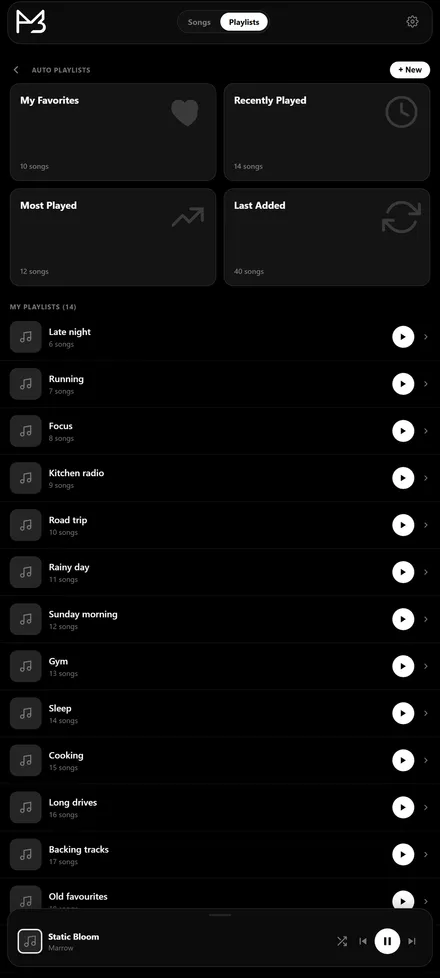
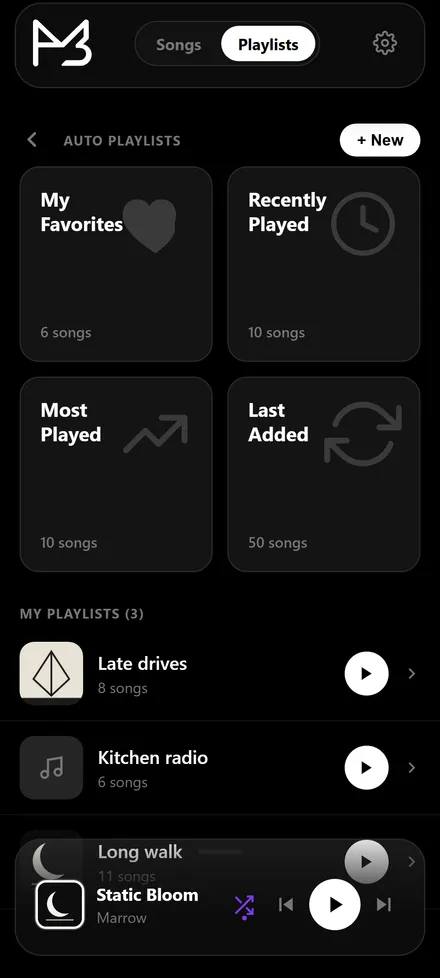
App: a tagged demo library, and a script that shoots the phone screenshots
The browser fixture had thirty tracks with no artists, on the reasoning
that an untagged library is what many people really have. True, but the
fixture is also the shop window: it is what the website's screenshots
and its embedded demo show, and a column of empty artists reads as a
player that cannot read your files rather than as files without tags.

So it is eight invented acts with eight tracks each, interleaved by date
added so the newest-first default shows a mixed library instead of eight
clean blocks.

The screenshots themselves are no longer taken by hand. scripts/
screenshot.mjs drives the dev server through Chrome's DevTools protocol
and always comes out at 1080 x 2400. Chrome's --window-size alone is not
enough: headless clamps the window to 486 css px, so the page lays out
too wide and the capture crops it, which is why this talks to the
protocol rather than shelling out to --screenshot.

The props it seeds with, three invented record sleeves and a listening
history, live in scripts/shot-props and are copied into public/ only
for the length of a run. Everything in public/ ships inside the release
APK, so they cannot stay there.

Website: both screens retaken. 64 songs rather than 40, artists on every
row, three covers, and the auto playlists have counts instead of zeroes.

diff --git a/MPTree-App/src/web/demoLibrary.ts b/MPTree-App/src/web/demoLibrary.ts
@@ -4,39 +4,98 @@
 // no MediaPlayer, so these stand in. That powers the playable demo embedded on
 // the website, and makes `npm run dev` a usable way to work on the UI.
 //
-// Titles are invented on purpose. The demo is public, so nothing here may be a
-// real song or artist. Artists are left blank, which is also what an untagged
-// library actually looks like.
+// Everything here is invented on purpose. The demo is public, so no name in
+// this file may belong to a real song, artist or record.
+//
+// Artists used to be left blank, on the reasoning that an untagged library is
+// what many people actually have. True, but this fixture is also the shop
+// window: it is what the website's screenshots and its embedded demo show, and
+// a column of empty artists reads as "this player cannot read my files"
+// rather than as "these files have no tags". So the fixture is tagged.
 
 export type DemoTrack = {
   id: string;
   title: string;
   artist: string;
+  album: string;
+  year: number;
+  track: number;
   uri: string;
   dateAdded: number;
   duration: number;
 };
 
-const TITLES = [
-  "Nightjar", "Held", "Loom", "Signal", "Drift", "Ember", "Vellum", "Static Bloom",
-  "Pale Hour", "Undertow", "Marrow", "Glasswing", "Sable", "Tinder", "Cinder",
-  "Halcyon", "Nocturne", "Fathom", "Ravel", "Umbra", "Quill", "Lantern", "Bramble",
-  "Cove", "Aster", "Kiln", "Meridian", "Slate", "Thistle", "Wren",
+/** Eight invented acts, each with an invented record. */
+const RECORDS: { artist: string; album: string; year: number; titles: string[] }[] = [
+  {
+    artist: "Kite Season", album: "Paper Weather", year: 2024,
+    titles: ["Midnight Drive", "Amber Light", "Iron Lullaby", "Distant Engine",
+             "Paper Weather", "Six Hours North", "Lantern", "Winter Arcade"],
+  },
+  {
+    artist: "The Halogens", album: "Slow Signal", year: 2023,
+    titles: ["Paper Boats", "Dust and Wire", "Blue Hour", "Slow Signal",
+             "Cold Open", "Tinder", "Halcyon", "The Quiet Part"],
+  },
+  {
+    artist: "Marrow", album: "Static Bloom", year: 2025,
+    titles: ["Static Bloom", "Neon Orchard", "The Long Way Down", "Glasswing",
+             "Sable", "Undertow", "Fathom", "Nocturne"],
+  },
+  {
+    artist: "Nine Lanterns", album: "Ghost Frequency", year: 2024,
+    titles: ["Wolves in the Hall", "Ghost Frequency", "Copper Rain", "Bramble",
+             "Kiln", "Thistle", "Ravel", "Held"],
+  },
+  {
+    artist: "Ada Vane", album: "Low Tide", year: 2022,
+    titles: ["Low Tide", "Silver Kite", "Cove", "Aster",
+             "Quill", "Drift", "Wren", "Meridian"],
+  },
+  {
+    artist: "Post Meridiem", album: "Sunday Machine", year: 2025,
+    titles: ["Cathedral Hum", "Sunday Machine", "Hollow Season", "Pale Hour",
+             "Umbra", "Slate", "Vellum", "Ember"],
+  },
+  {
+    artist: "Fenwick Drive", album: "Nightjar", year: 2023,
+    titles: ["Nightjar", "Loom", "Cinder", "Signal Fire",
+             "The Understudy", "Harbour Light", "Ninth of June", "Everley"],
+  },
+  {
+    artist: "Salt House", album: "Tidewater", year: 2026,
+    titles: ["Tidewater", "Brackish", "Anchor Chain", "Saltmarsh",
+             "Gale Warning", "Foghorn", "Spring Tide", "Last Ferry"],
+  },
 ];
 
 const DAY = 86_400_000;
 
-/** Deterministic, so the demo looks the same to everyone who opens it. */
-export const DEMO_TRACKS: DemoTrack[] = TITLES.map((title, i) => ({
-  id:        `demo://${i}`,
-  title,
-  artist:    "",
-  uri:       `demo://${i}`,
-  dateAdded: Date.UTC(2026, 7, 1) - i * DAY,
-  // 2:34 to about 5:30, varied enough that the progress bar reads differently
-  // from row to row.
-  duration:  154_000 + ((i * 37) % 180) * 1000,
-}));
+/**
+ * Deterministic, so the demo looks the same to everyone who opens it.
+ *
+ * Records are interleaved rather than listed one after another: sorted by date
+ * added, the newest-first default then shows a mixed library the way a real one
+ * looks, instead of eight albums in eight clean blocks.
+ */
+export const DEMO_TRACKS: DemoTrack[] = RECORDS.flatMap((rec, r) =>
+  rec.titles.map((title, t) => {
+    const i = t * RECORDS.length + r;
+    return {
+      id:        `demo://${i}`,
+      title,
+      artist:    rec.artist,
+      album:     rec.album,
+      year:      rec.year,
+      track:     t + 1,
+      uri:       `demo://${i}`,
+      dateAdded: Date.UTC(2026, 7, 1) - i * DAY,
+      // 2:34 to about 5:30, varied enough that the progress bar reads
+      // differently from row to row.
+      duration:  154_000 + ((i * 37) % 180) * 1000,
+    };
+  }),
+).sort((a, b) => b.dateAdded - a.dateAdded);
 
 export const DEMO_DURATIONS: Record<string, number> = Object.fromEntries(
   DEMO_TRACKS.map(t => [t.uri, t.duration]),

diff --git a/Website/index.html b/Website/index.html
@@ -15,18 +15,18 @@
 <meta property="og:title" content="MPTree, an offline music player">
 <meta property="og:description" content="MPTree plays the music already on your device. Nothing streams, nothing uploads.">
 <meta property="og:url" content="https://mp-tree.net/">
-<meta property="og:image" content="https://mp-tree.net/assets/img/og-image.png?v=33">
+<meta property="og:image" content="https://mp-tree.net/assets/img/og-image.png?v=34">
 <meta property="og:image:width" content="1200">
 <meta property="og:image:height" content="630">
 <meta name="twitter:card" content="summary_large_image">
-<meta name="twitter:image" content="https://mp-tree.net/assets/img/og-image.png?v=33">
+<meta name="twitter:image" content="https://mp-tree.net/assets/img/og-image.png?v=34">
 
 <link rel="icon" type="image/svg+xml" href="assets/icon/favicon.svg">
 <link rel="icon" type="image/png" sizes="32x32" href="assets/icon/favicon-32.png">
 <link rel="apple-touch-icon" href="assets/icon/apple-touch-icon-180.png">
 
-<link rel="stylesheet" href="assets/tokens.css?v=33">
-<link rel="stylesheet" href="assets/site.css?v=33">
+<link rel="stylesheet" href="assets/tokens.css?v=34">
+<link rel="stylesheet" href="assets/site.css?v=34">
 </head>
 <body>
 
@@ -56,7 +56,7 @@
 
     <div class="hero-disc" aria-hidden="true">
       <div class="disc">
-        <img src="assets/img/vinyl.webp?v=33" alt="" width="1000" height="1000">
+        <img src="assets/img/vinyl.webp?v=34" alt="" width="1000" height="1000">
       </div>
       <div class="disc-label">
         <img src="assets/img/mptree-mark-black.svg" alt="" width="26" height="26">
@@ -107,14 +107,14 @@
       <div class="phone-row">
         <div class="phone">
           <div class="phone-screen">
-            <img class="phone-shot" src="assets/img/screens/songs.png?v=33"
+            <img class="phone-shot" src="assets/img/screens/songs.png?v=34"
                  alt="The MPTree song list, with a track playing in the bar at the bottom"
                  width="1080" height="2400" loading="lazy">
           </div>
         </div>
         <div class="phone">
           <div class="phone-screen">
-            <img class="phone-shot" src="assets/img/screens/playlists.png?v=33"
+            <img class="phone-shot" src="assets/img/screens/playlists.png?v=34"
                  alt="The MPTree playlists page, with the automatic playlists above your own"
                  width="1080" height="2400" loading="lazy">
           </div>
@@ -283,8 +283,8 @@
   </div>
 </footer>
 
-<script src="assets/versions.js?v=33"></script>
-<script src="assets/releases.js?v=33" defer></script>
-<script src="assets/site.js?v=33" defer></script>
+<script src="assets/versions.js?v=34"></script>
+<script src="assets/releases.js?v=34" defer></script>
+<script src="assets/site.js?v=34" defer></script>
 </body>
 </html>

diff --git a/MPTree-App/scripts/shot-props/seed.html b/MPTree-App/scripts/shot-props/seed.html
@@ -1,0 +1,41 @@
+<!doctype html><meta charset="utf-8"><title>seed</title>
+<body style="background:#000">
+<script>
+(async () => {
+  const toDataUrl = async u => {
+    const b = await (await fetch(u)).blob();
+    return await new Promise(r => { const f = new FileReader(); f.onload = () => r(f.result); f.readAsDataURL(b); });
+  };
+  const covers = await Promise.all([0,1,2].map(i => toDataUrl('/demo-cover-' + i + '.jpg')));
+  const meta = {};
+  covers.forEach((p, i) => { meta['demo://' + i] = { customPhoto: p }; });
+  for (const i of [1, 5, 9, 13, 17, 22]) {
+    meta['demo://' + i] = Object.assign(meta['demo://' + i] || {}, { liked: true });
+  }
+  // A listening history, so Recently Played and Most Played are not both empty.
+  const HOUR = 3600000, now = Date.UTC(2026, 8, 8, 19, 40);
+  [[2, 31, 1], [1, 14, 3], [9, 9, 5], [5, 8, 9], [17, 7, 14], [0, 6, 20],
+   [13, 5, 27], [22, 4, 33], [4, 3, 41], [8, 2, 52]].forEach(([i, plays, hoursAgo]) => {
+    meta['demo://' + i] = Object.assign(meta['demo://' + i] || {}, {
+      playCount: plays, lastPlayedAt: now - hoursAgo * HOUR,
+    });
+  });
+  localStorage.setItem('CapacitorStorage.mptree_meta', JSON.stringify(meta));
+  localStorage.setItem('CapacitorStorage.mptree_session', JSON.stringify({
+    filter: 'newest', playMode: 'shuffle', currentId: 'demo://2',
+    queueIds: Array.from({ length: 64 }, (_, i) => 'demo://' + i),
+    positionMs: 74000, isPlaying: false
+  }));
+  // Two playlists of the user's own, so the tab is not only the automatic ones.
+  localStorage.setItem('CapacitorStorage.mptree_playlists', JSON.stringify([
+    { id: '1000', name: 'Late drives', createdAt: Date.UTC(2026, 6, 12),
+      songIds: [0,8,16,24,32,40,9,17].map(i => 'demo://' + i), coverPhoto: covers[0] },
+    { id: '1001', name: 'Kitchen radio', createdAt: Date.UTC(2026, 5, 3),
+      songIds: [1,5,13,21,29,37].map(i => 'demo://' + i) },
+    { id: '1002', name: 'Long walk', createdAt: Date.UTC(2026, 4, 21),
+      songIds: [2,10,18,26,34,42,50,58,3,11,19].map(i => 'demo://' + i), coverPhoto: covers[2] }
+  ]));
+  localStorage.setItem('CapacitorStorage.mptree_onboarded_v2', '1');
+  location.replace('/');
+})();
+</script>

diff --git a/Website/download.html b/Website/download.html
@@ -10,16 +10,16 @@
 <meta property="og:type" content="website">
 <meta property="og:title" content="Download MPTree">
 <meta property="og:description" content="Downloading MPTree, with a short guide to installing it on Android.">
-<meta property="og:image" content="https://mp-tree.net/assets/img/og-image.png?v=33">
+<meta property="og:image" content="https://mp-tree.net/assets/img/og-image.png?v=34">
 <meta name="twitter:card" content="summary_large_image">
-<meta name="twitter:image" content="https://mp-tree.net/assets/img/og-image.png?v=33">
+<meta name="twitter:image" content="https://mp-tree.net/assets/img/og-image.png?v=34">
 
 <link rel="icon" type="image/svg+xml" href="assets/icon/favicon.svg">
 <link rel="icon" type="image/png" sizes="32x32" href="assets/icon/favicon-32.png">
 <link rel="apple-touch-icon" href="assets/icon/apple-touch-icon-180.png">
 
-<link rel="stylesheet" href="assets/tokens.css?v=33">
-<link rel="stylesheet" href="assets/site.css?v=33">
+<link rel="stylesheet" href="assets/tokens.css?v=34">
+<link rel="stylesheet" href="assets/site.css?v=34">
 </head>
 <body>
 

diff --git a/Website/versions.html b/Website/versions.html
@@ -12,8 +12,8 @@
 <link rel="icon" type="image/png" sizes="32x32" href="assets/icon/favicon-32.png">
 <link rel="apple-touch-icon" href="assets/icon/apple-touch-icon-180.png">
 
-<link rel="stylesheet" href="assets/tokens.css?v=33">
-<link rel="stylesheet" href="assets/site.css?v=33">
+<link rel="stylesheet" href="assets/tokens.css?v=34">
+<link rel="stylesheet" href="assets/site.css?v=34">
 </head>
 <body>
 
@@ -95,7 +95,7 @@
   </div>
 </footer>
 
-<script src="assets/versions.js?v=33"></script>
-<script src="assets/releases.js?v=33" defer></script>
+<script src="assets/versions.js?v=34"></script>
+<script src="assets/releases.js?v=34" defer></script>
 </body>
 </html>

diff --git a/Website/privacy.html b/Website/privacy.html
@@ -12,8 +12,8 @@
 <link rel="icon" type="image/png" sizes="32x32" href="assets/icon/favicon-32.png">
 <link rel="apple-touch-icon" href="assets/icon/apple-touch-icon-180.png">
 
-<link rel="stylesheet" href="assets/tokens.css?v=33">
-<link rel="stylesheet" href="assets/site.css?v=33">
+<link rel="stylesheet" href="assets/tokens.css?v=34">
+<link rel="stylesheet" href="assets/site.css?v=34">
 </head>
 <body>
 
